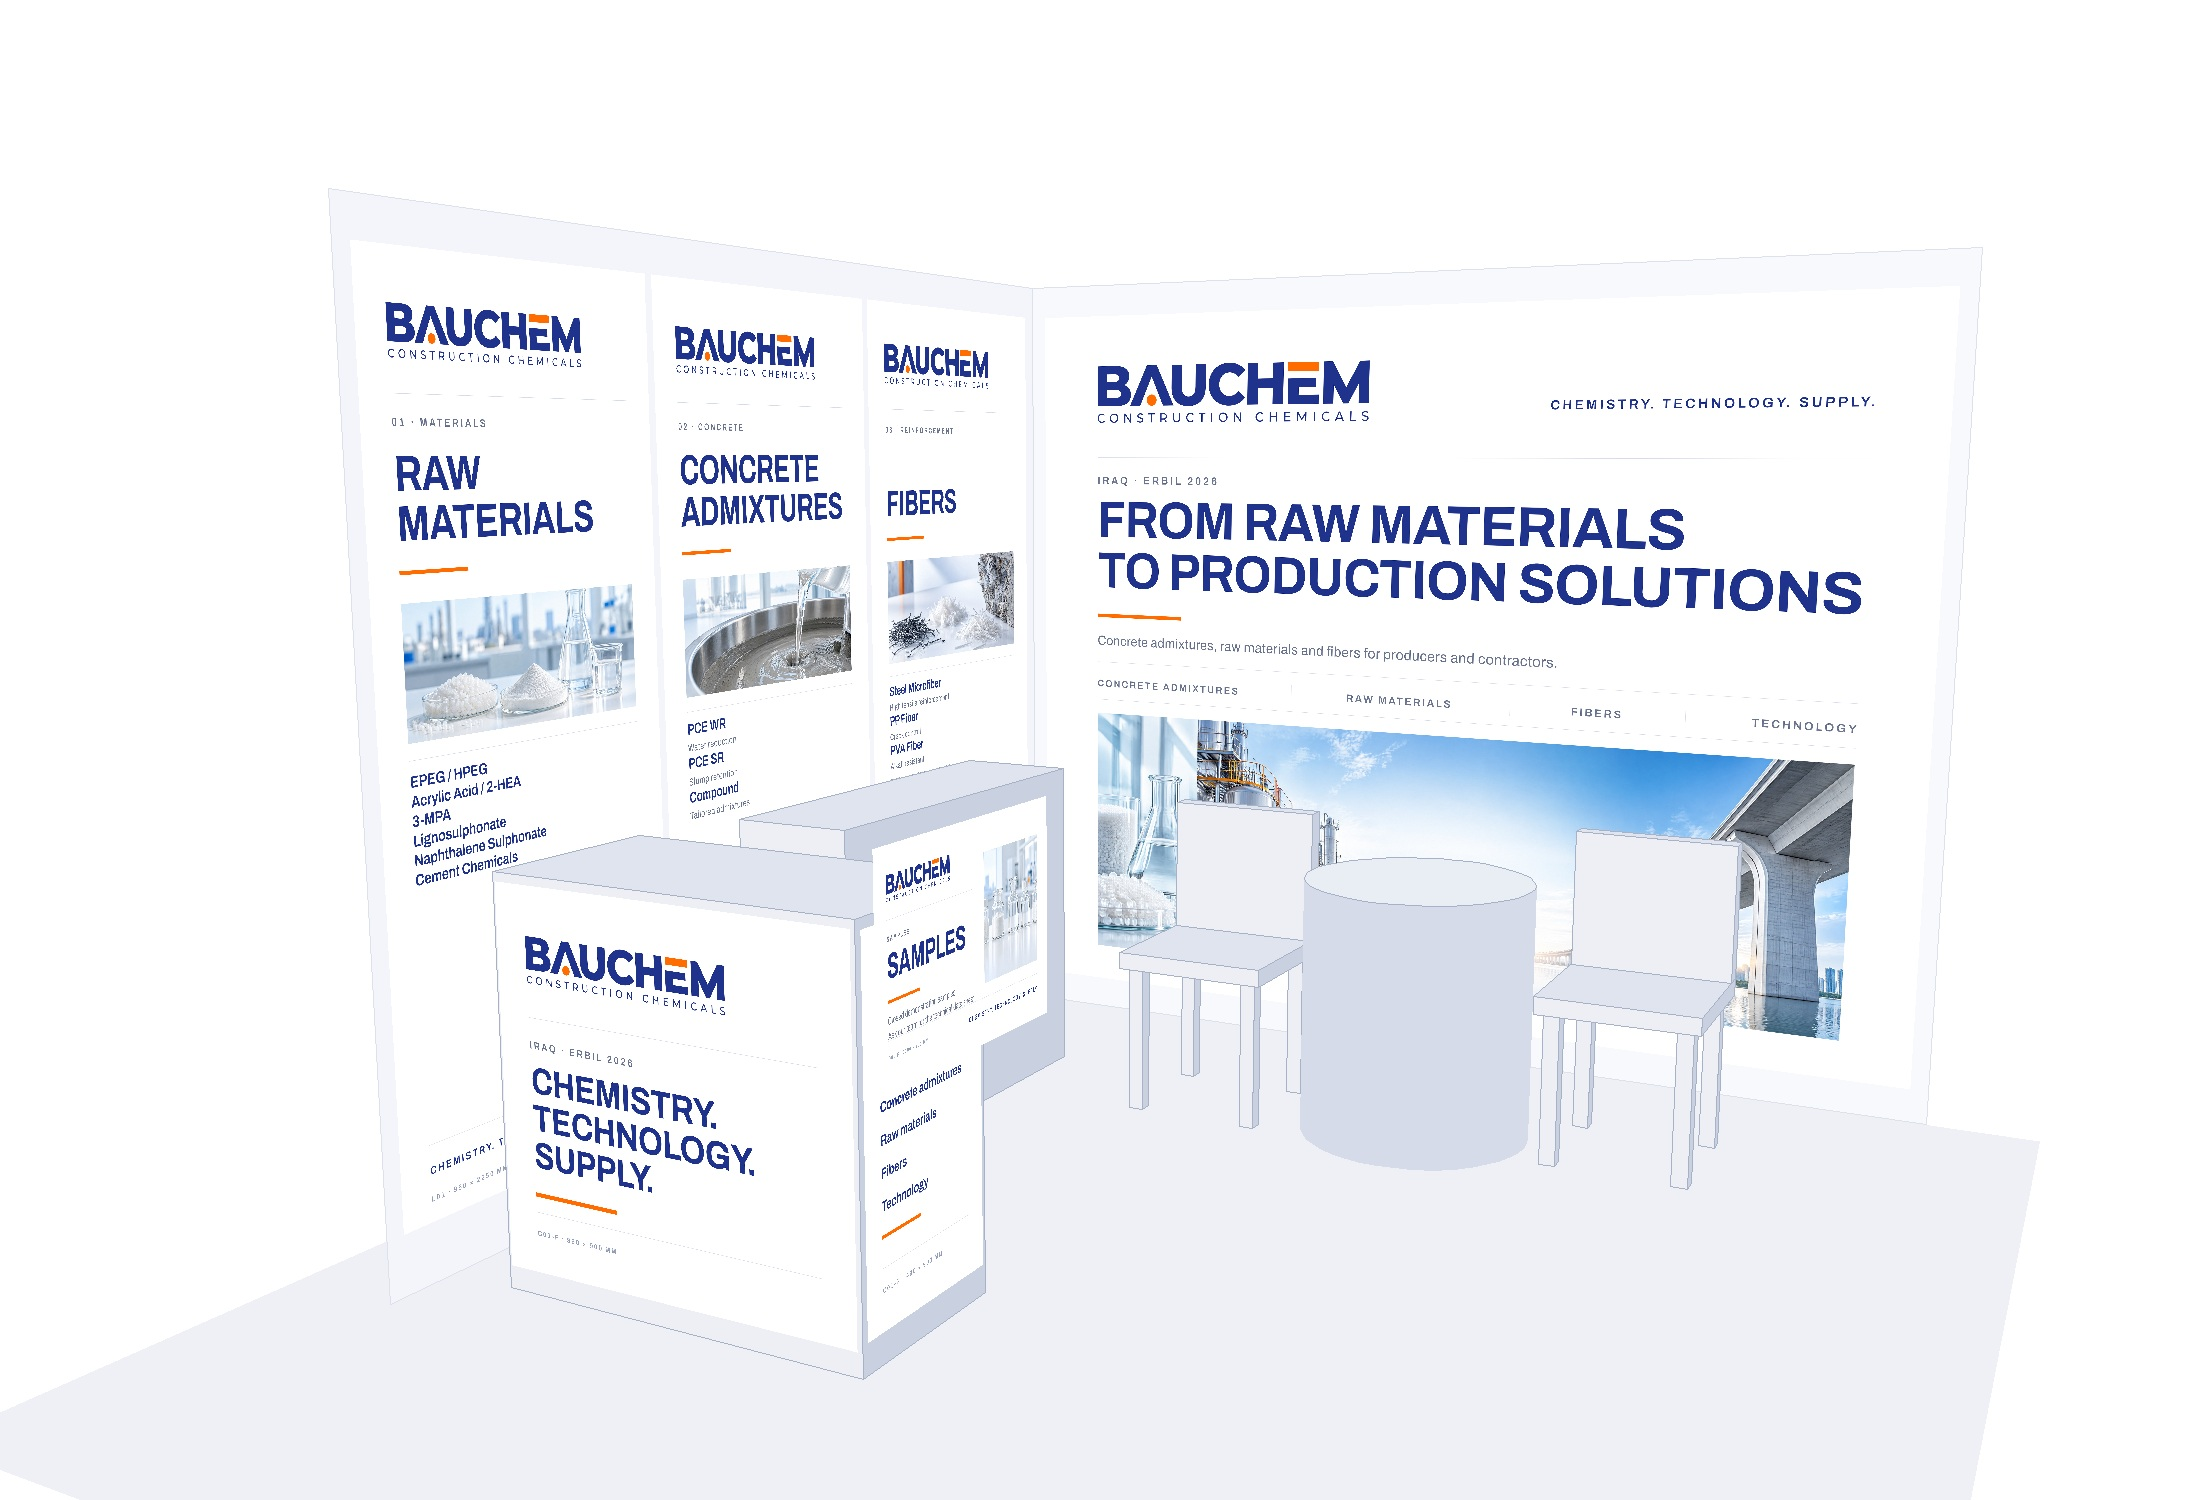
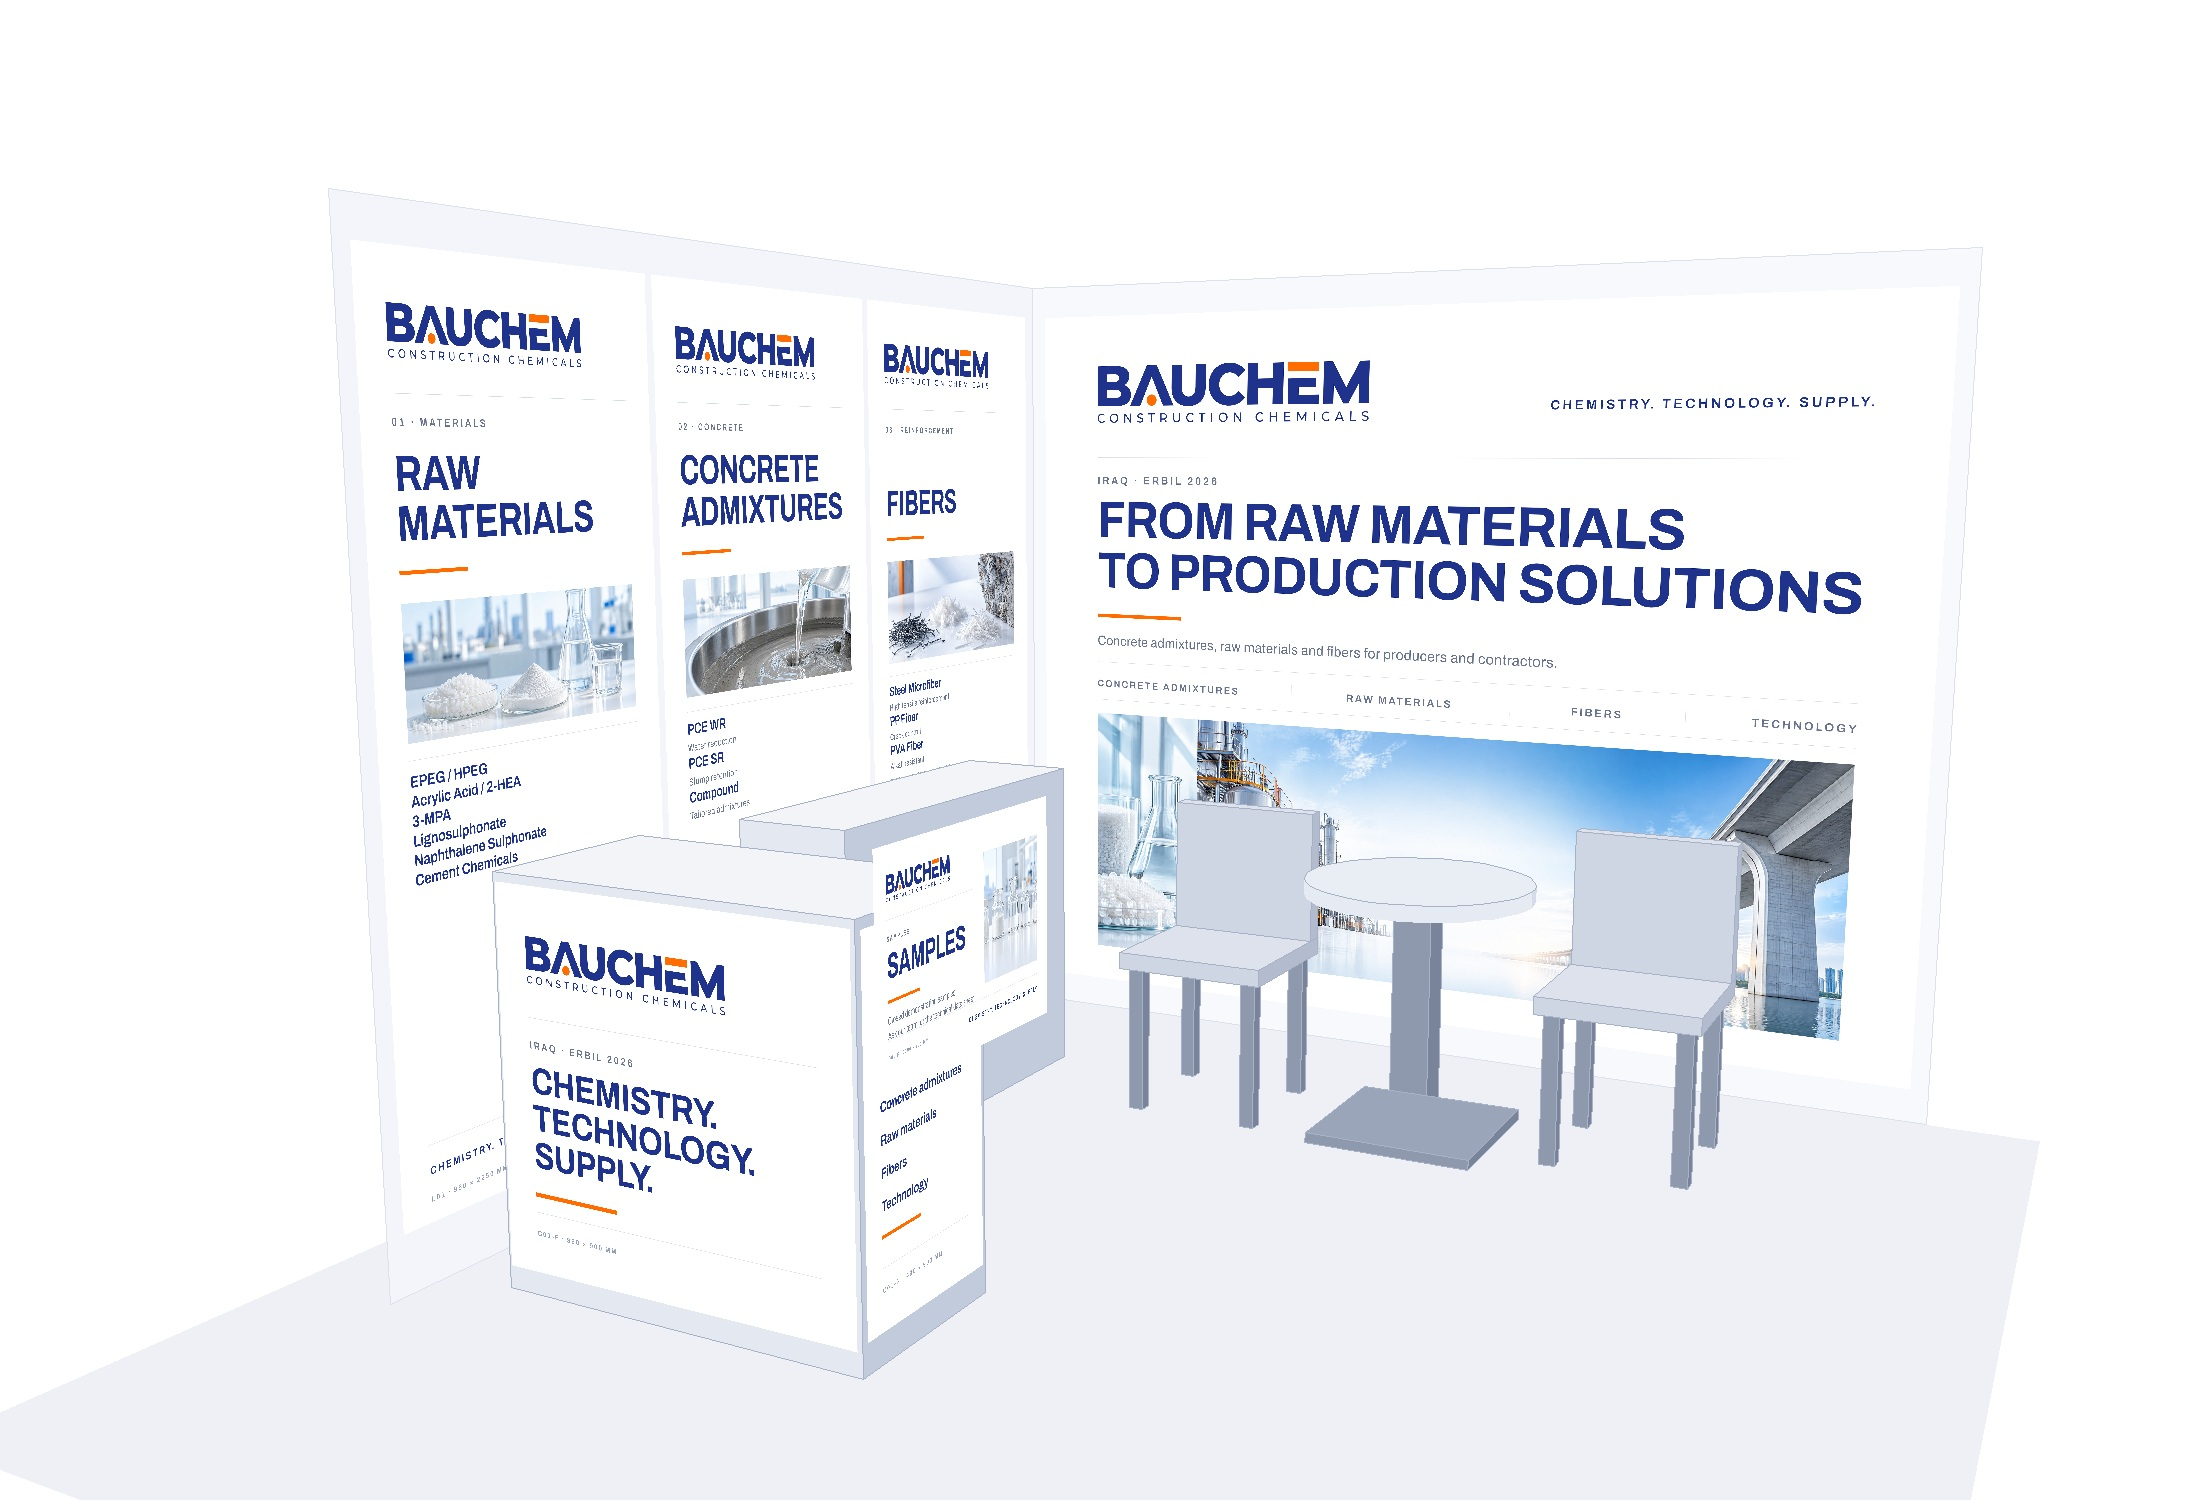
Add presentation renders: stand composited into a photographed hall
Client asked for a photo-like image. Generating the whole scene would
have invented the artwork, so only the environment is generated — a
bright empty expo hall — and the stand is still the geometric render
carrying the real print files.

tools/stand_photo.py does the compositing: the camera's principal point
is pushed to the background's horizon so the floors agree, a broad soft
shadow plus tight per-object contact shadows ground the structure, a
vertical gradient lights the walls, and grain and a vignette settle the
CG into the photograph. Yaw is free, since a horizontal camera keeps the
horizon on the same line whatever direction it faces — that is what lets
the three-quarter view sit on the same floor as the straight-on one.

Furniture gained materials (metal legs, moulded seats, a pedestal table)
because flat white blocks were the obvious CG tell.

Two views: straight on with all seven wall pieces, and three-quarter.

Claude-Session: https://claude.ai/code/session_01XCeF9UqU22qRqLY8bEz5Sr

Changed region(s): [[0.4945, 0.5213, 0.8036, 0.7973]]

diff --git a/projects/bauchem-erbil-2026/tools/stand_photo.py b/projects/bauchem-erbil-2026/tools/stand_photo.py
@@ -1,0 +1,99 @@
+# -*- coding: utf-8 -*-
+"""
+Презентационная картинка: стенд с настоящими макетами, вписанный в снятый зал.
+
+Окружение сгенерировано, сам стенд — не генерация: на стенах те же файлы,
+что уходят в печать. Добавлены свет, контактные тени и зернистость,
+чтобы вписать геометрию в фотографию.
+"""
+import os
+import numpy as np
+from PIL import Image, ImageDraw, ImageFilter, ImageChops
+import stand3d as S
+
+HERE = os.path.dirname(__file__)
+OUT = os.path.join(HERE, "..", "out_v3")
+HALL = os.path.join(HERE, "..", "img", "HALL.png")
+HORIZON = 0.365          # доля высоты кадра, где у фона сходится пол
+
+
+def _gradient(size, top, bottom):
+    g = Image.new("L", (1, size[1]))
+    for y in range(size[1]):
+        t = y / max(1, size[1] - 1)
+        g.putpixel((0, y), int(top + (bottom - top) * t))
+    return g.resize(size, Image.BILINEAR)
+
+
+def build(path, eye, target, f, size=(2880, 1920), shadow=0.42, grain=5):
+    hall = Image.open(HALL).convert("RGB").resize(size, Image.LANCZOS)
+    cam = S.Cam(eye, target, f, size, principal=(size[0] / 2, size[1] * HORIZON))
+
+    # ---- контактная тень: след стенда на полу, сильно размытый -------------
+    sh = Image.new("L", size, 0)
+    ds = ImageDraw.Draw(sh)
+    foot = [(-120, -260, 0), (S.SW + 120, -260, 0), (S.SW + 120, S.SD + 120, 0), (-120, S.SD + 120, 0)]
+    ds.polygon([cam(p) for p in foot], fill=int(255 * shadow))
+    for it in ((180, 200, 1180, 700), (100, 1200, 450, 2400)):      # стойка и тумба
+        x0, y0, x1, y1 = it
+        ds.polygon([cam((x0 - 60, y0 - 60, 0)), cam((x1 + 60, y0 - 60, 0)),
+                    cam((x1 + 60, y1 + 60, 0)), cam((x0 - 60, y1 + 60, 0))], fill=255)
+    sh = sh.filter(ImageFilter.GaussianBlur(size[0] * 0.011))
+    hall = Image.composite(Image.new("RGB", size, (62, 68, 82)), hall, sh)
+
+    # узкая плотная тень под каждым объектом (контакт с полом)
+    import math
+    tight = Image.new("L", size, 0)
+    dt = ImageDraw.Draw(tight)
+    for x0, y0, x1, y1 in ((180, 200, 1180, 700), (100, 1200, 450, 2400),
+                           (845, 2025, 1295, 2475), (2065, 2125, 2515, 2575)):
+        dt.polygon([cam((x0 - 30, y0 - 30, 0)), cam((x1 + 30, y0 - 30, 0)),
+                    cam((x1 + 30, y1 + 30, 0)), cam((x0 - 30, y1 + 30, 0))], fill=210)
+    dt.polygon([cam((1690 + 360 * math.cos(a), 2250 + 360 * math.sin(a), 0))
+                for a in (i * math.pi / 18 for i in range(36))], fill=210)   # след стола
+    for (ax, ay), (bx, by) in (((0, 0), (0, S.SD)), ((S.SW, 0), (S.SW, S.SD)),
+                               ((0, S.SD), (S.SW, S.SD))):
+        nx, ny = (140, 0) if ax == bx else (0, -140)
+        sgn = 1 if ax == 0 and bx == 0 else -1 if ax == S.SW else 1
+        dt.polygon([cam((ax, ay, 0)), cam((bx, by, 0)),
+                    cam((bx + sgn * nx, by + ny, 0)), cam((ax + sgn * nx, ay + ny, 0))], fill=150)
+    tight = tight.filter(ImageFilter.GaussianBlur(size[0] * 0.004))
+    hall = Image.composite(Image.new("RGB", size, (56, 62, 76)), hall,
+                           tight.point(lambda v: int(v * 0.55)))
+
+    # ---- стенд на прозрачном слое ------------------------------------------
+    layer = Image.new("RGBA", size, (0, 0, 0, 0))
+    shown = S.draw_scene(layer, cam, floor=False)
+    alpha = layer.split()[3]
+
+    # свет: сверху светлее, у пола темнее; лёгкое затемнение по краям кадра
+    rgb = layer.convert("RGB")
+    lit = ImageChops.multiply(rgb, Image.merge("RGB", [_gradient(size, 255, 206)] * 3))
+    lit = Image.blend(rgb, lit, 0.85)
+    layer = Image.merge("RGBA", (*lit.split(), alpha))
+
+    # мягкое затемнение в нижних углах — имитация затенения в углах стенда
+    ao = Image.new("L", size, 0)
+    da = ImageDraw.Draw(ao)
+    da.polygon([cam((0, 0, 0)), cam((0, S.SD, 0)), cam((S.SW, S.SD, 0)), cam((S.SW, 0, 0))], fill=90)
+    ao = ao.filter(ImageFilter.GaussianBlur(size[0] * 0.02))
+
+    out = hall.copy()
+    out.paste(layer, (0, 0), alpha)
+    out = Image.composite(ImageChops.multiply(out, Image.merge("RGB", [ao.point(
+        lambda v: 255 - v)] * 3)), out, alpha)
+
+    # ---- зерно и мягкая виньетка -------------------------------------------
+    if grain:
+        n = np.random.default_rng(7).normal(0, grain, (size[1], size[0], 1)).repeat(3, 2)
+        out = Image.fromarray(np.clip(np.asarray(out, float) + n, 0, 255).astype("uint8"))
+    vig = Image.new("L", size, 255)
+    dv = ImageDraw.Draw(vig)
+    m = int(size[0] * 0.16)
+    dv.ellipse([-m, -m, size[0] + m, size[1] + m], fill=255)
+    vig = vig.filter(ImageFilter.GaussianBlur(size[0] * 0.06))
+    out = ImageChops.multiply(out, Image.merge("RGB", [vig.point(lambda v: 210 + v * 45 // 255)] * 3))
+
+    out.save(path, quality=93, subsampling=1)
+    print(f"{os.path.basename(path)}: {', '.join(shown)}")
+    return path

diff --git a/projects/bauchem-erbil-2026/tools/stand3d.py b/projects/bauchem-erbil-2026/tools/stand3d.py
@@ -30,13 +30,14 @@ def wall_pieces():
 
 
 class Cam:
-    def __init__(self, eye, target, f, size, up=(0, 0, 1)):
+    def __init__(self, eye, target, f, size, up=(0, 0, 1), principal=None):
         self.eye = np.array(eye, float)
         fwd = np.array(target, float) - self.eye
         fwd /= np.linalg.norm(fwd)
         right = np.cross(fwd, np.array(up, float)); right /= np.linalg.norm(right)
         self.fwd, self.right, self.up = fwd, right, np.cross(right, fwd)
-        self.f, self.cx, self.cy = f, size[0] / 2, size[1] / 2
+        self.f = f
+        self.cx, self.cy = principal if principal else (size[0] / 2, size[1] / 2)
 
     def __call__(self, p):
         d = np.array(p, float) - self.eye
@@ -76,7 +77,7 @@ def paste_quad(base, img, quad):
     return True
 
 
-def box(d, cam, x0, y0, x1, y1, z0, z1, top="#DFE4EE", lit="#EDEFF5", dark="#C9D1E0"):
+def box(d, cam, x0, y0, x1, y1, z0, z1, top="#F2F4F8", lit="#E4E8F1", dark="#C2CBDC"):
     """Грани задаём одинаково: ЛВ, ПВ, ПН, ЛН — как их видно снаружи этой грани."""
     v = lambda x, y, z: cam((x, y, z))
     faces = [
@@ -84,7 +85,7 @@ def box(d, cam, x0, y0, x1, y1, z0, z1, top="#DFE4EE", lit="#EDEFF5", dark="#C9D
         ([v(x0, y0, z1), v(x1, y0, z1), v(x1, y0, z0), v(x0, y0, z0)], lit),   # фронт,  -Y
         ([v(x1, y1, z1), v(x0, y1, z1), v(x0, y1, z0), v(x1, y1, z0)], dark),  # тыл,    +Y
         ([v(x1, y0, z1), v(x1, y1, z1), v(x1, y1, z0), v(x1, y0, z0)], dark),  # правая, +X
-        ([v(x0, y1, z1), v(x0, y0, z1), v(x0, y0, z0), v(x0, y1, z0)], lit),   # левая,  -X
+        ([v(x0, y1, z1), v(x0, y0, z1), v(x0, y0, z0), v(x0, y1, z0)], "#D4DBE8"),  # левая, -X
     ]
     for pts, col in faces:
         if facing(pts) > 0:
@@ -92,29 +93,34 @@ def box(d, cam, x0, y0, x1, y1, z0, z1, top="#DFE4EE", lit="#EDEFF5", dark="#C9D
 
 
 def cylinder(d, cam, cx, cy, r, z0, z1, n=44):
+    # стол на центральной опоре: тонкая ножка и столешница
+    box(d, cam, cx - 55, cy - 55, cx + 55, cy + 55, 0, z1 - 30, **LEG)
+    box(d, cam, cx - 240, cy - 240, cx + 240, cy + 240, 0, 28, **LEG)
     ring = lambda z: [cam((cx + r * math.cos(2 * math.pi * i / n),
                            cy + r * math.sin(2 * math.pi * i / n), z)) for i in range(n)]
-    up, lo = ring(z1), ring(z0)
+    up, lo = ring(z1), ring(z1 - 45)
     for i in range(n):
         j = (i + 1) % n
-        d.polygon([up[i], up[j], lo[j], lo[i]], fill="#D5DBE8")
+        d.polygon([up[i], up[j], lo[j], lo[i]], fill="#D5DBE8" if i < n // 2 else "#E6EAF2")
     d.polygon(up, fill="#E9EDF4", outline="#A8B2C6")
+
+
+LEG = dict(top="#9BA5B9", lit="#8F99AE", dark="#79839A")     # металл ножек
+SEAT = dict(top="#DDE2EC", lit="#CFD6E3", dark="#B3BCCF")    # пластик сиденья
 
 
 def chair(d, cam, cx, cy):
     for dx, dy in ((-180, -180), (180, -180), (-180, 180), (180, 180)):
-        box(d, cam, cx + dx - 22, cy + dy - 22, cx + dx + 22, cy + dy + 22, 0, 430)
-    box(d, cam, cx - 225, cy - 225, cx + 225, cy + 225, 430, 480)      # сиденье
-    box(d, cam, cx - 225, cy + 165, cx + 225, cy + 225, 480, 870)      # спинка
+        box(d, cam, cx + dx - 22, cy + dy - 22, cx + dx + 22, cy + dy + 22, 0, 430, **LEG)
+    box(d, cam, cx - 225, cy - 225, cx + 225, cy + 225, 430, 480, **SEAT)   # сиденье
+    box(d, cam, cx - 225, cy + 165, cx + 225, cy + 225, 480, 870, **SEAT)   # спинка
 
 
-def render(path, eye, target, f, size=(2200, 1500)):
-    base = Image.new("RGB", size, "#FFFFFF")
-    cam = Cam(eye, target, f, size)
+def draw_scene(base, cam, floor=True):
     d = ImageDraw.Draw(base, "RGBA")
-
-    d.polygon([cam((-300, -900, 0)), cam((SW + 300, -900, 0)),
-               cam((SW + 300, SD, 0)), cam((-300, SD, 0))], fill="#EEF0F5")
+    if floor:
+        d.polygon([cam((-300, -900, 0)), cam((SW + 300, -900, 0)),
+                   cam((SW + 300, SD, 0)), cam((-300, SD, 0))], fill="#EEF0F5")
     for quad, col in (
         ([(0, SD, SH), (SW, SD, SH), (SW, SD, 0), (0, SD, 0)], "#F8F9FC"),     # задняя
         ([(0, 0, SH), (0, SD, SH), (0, SD, 0), (0, 0, 0)], "#F3F5FA"),          # левая
@@ -156,6 +162,12 @@ def render(path, eye, target, f, size=(2200, 1500)):
                       [cam(p) for p in quad]):
             shown.append(code)
 
+    return shown
+
+
+def render(path, eye, target, f, size=(2200, 1500)):
+    base = Image.new("RGB", size, "#FFFFFF")
+    shown = draw_scene(base, Cam(eye, target, f, size))
     base.save(path, quality=94)
     print(f"{os.path.basename(path)}: {', '.join(shown)}")
     return path
